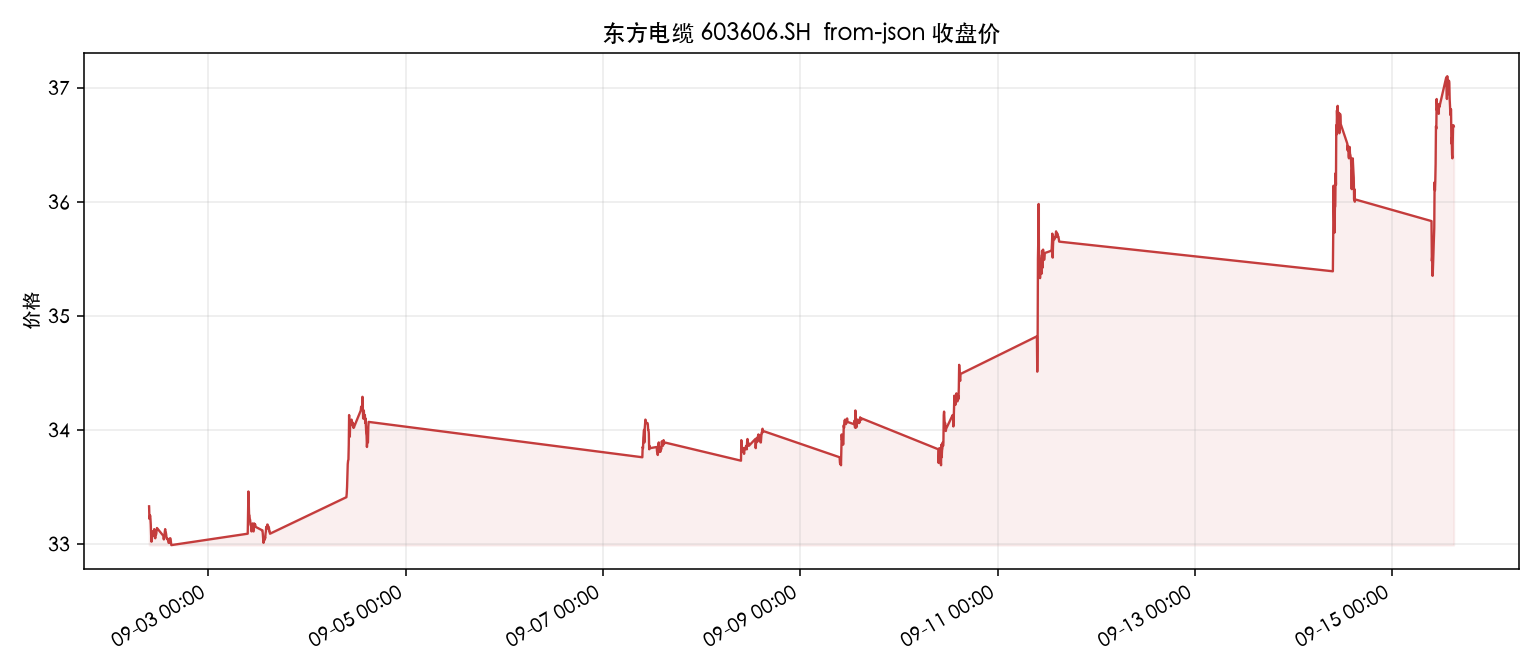
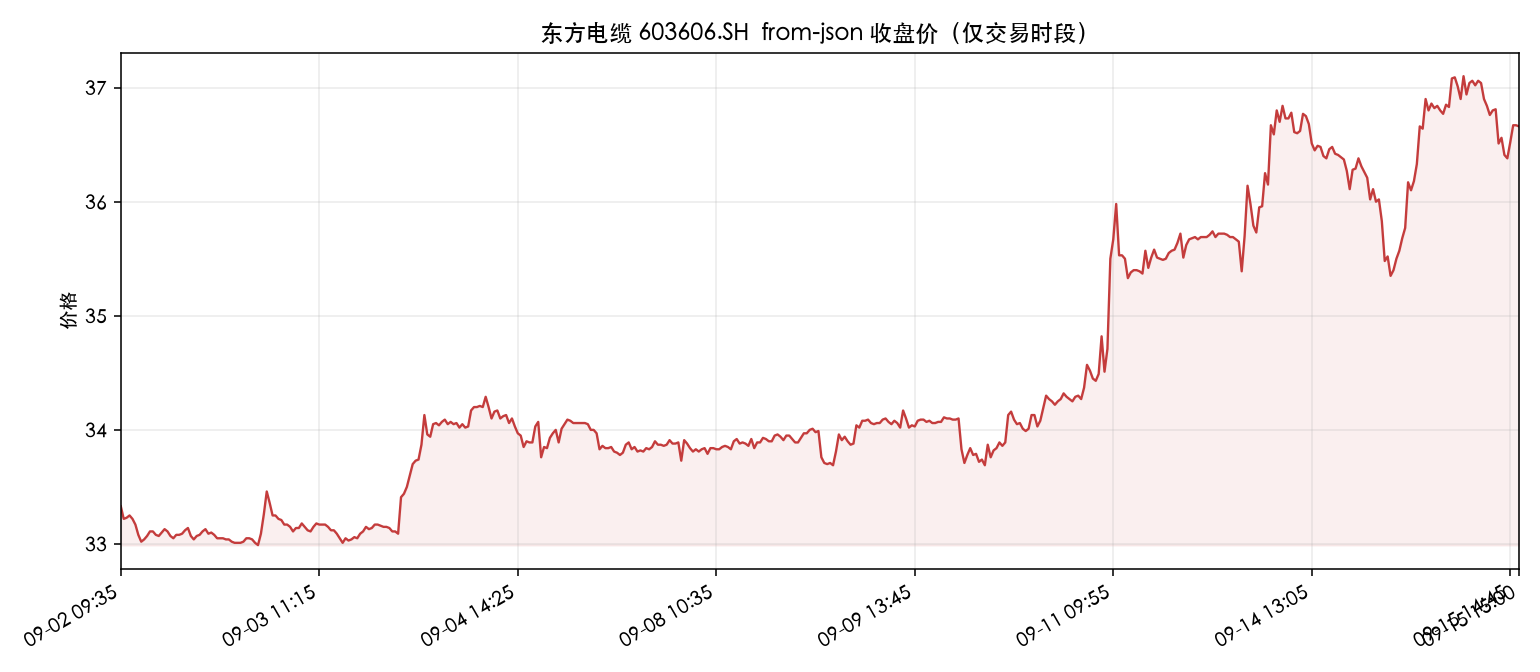
fix: plot only trading bars on x-axis
Skip overnight/lunch/weekend gaps so minute charts no longer draw
long straight lines across non-trading time.

diff --git a/src/emquote/plotting.py b/src/emquote/plotting.py
@@ -1,4 +1,8 @@
-"""把 K 线收盘价画成简单曲线图（PNG）。"""
+"""把 K 线收盘价画成简单曲线图（PNG）。
+
+分钟级数据按「交易 bar 序号」横轴绘制，跳过隔夜/周末等非交易时段，
+避免休市空洞被连成斜线。
+"""
 
 from __future__ import annotations
 
@@ -27,14 +31,34 @@ def _setup_chinese_font() -> None:
             return
 
 
+def _label_for_bar(time_text: str, *, intraday: bool) -> str:
+    """横轴标签：分钟线标到时刻，日线只标日期。"""
+    if intraday and " " in time_text:
+        date, hm = time_text.split(" ", 1)
+        return f"{date[5:]} {hm}"  # MM-DD HH:MM
+    if " " in time_text:
+        return time_text.split(" ", 1)[0][5:]  # MM-DD
+    return time_text[5:] if len(time_text) >= 10 else time_text
+
+
+def _pick_tick_indices(n: int, target: int = 8) -> list[int]:
+    if n <= 0:
+        return []
+    if n <= target:
+        return list(range(n))
+    step = max(1, (n - 1) // (target - 1))
+    idxs = list(range(0, n, step))
+    if idxs[-1] != n - 1:
+        idxs.append(n - 1)
+    return idxs
+
+
 def plot_close_curve(kline: dict[str, Any], output: str | Path) -> Path:
     try:
         import matplotlib
 
         matplotlib.use("Agg")
-        import matplotlib.dates as mdates
         import matplotlib.pyplot as plt
-        from datetime import datetime
     except ImportError as exc:  # pragma: no cover
         raise RuntimeError("画图需要安装 matplotlib：pip install 'emquote[plot]'") from exc
 
@@ -44,28 +68,36 @@ def plot_close_curve(kline: dict[str, Any], output: str | Path) -> Path:
     if not bars:
         raise RuntimeError("没有可绘制的 K 线数据")
 
-    times = []
-    for b in bars:
-        t = b["time"]
-        if " " in t:
-            times.append(datetime.strptime(t, "%Y-%m-%d %H:%M"))
-        else:
-            times.append(datetime.strptime(t, "%Y-%m-%d"))
-    closes = [b["close"] for b in bars]
+    # 只用交易时段 bar，按序号等距排列，不按日历时间轴留空。
+    xs = list(range(len(bars)))
+    closes = [float(b["close"]) for b in bars]
+    labels = [str(b["time"]) for b in bars]
+    intraday = any(" " in t for t in labels)
 
     out = Path(output).expanduser().resolve()
     out.parent.mkdir(parents=True, exist_ok=True)
 
     fig, ax = plt.subplots(figsize=(11, 4.8), dpi=140)
-    ax.plot(times, closes, color="#c43c3c", linewidth=1.2)
-    ax.fill_between(times, closes, min(closes), color="#c43c3c", alpha=0.08)
-    title = f"{kline.get('name') or ''} {kline.get('symbol') or ''}  {kline.get('interval') or ''} 收盘价".strip()
+    ax.plot(xs, closes, color="#c43c3c", linewidth=1.2)
+    ax.fill_between(xs, closes, min(closes), color="#c43c3c", alpha=0.08)
+
+    title = (
+        f"{kline.get('name') or ''} {kline.get('symbol') or ''}  "
+        f"{kline.get('interval') or ''} 收盘价（仅交易时段）"
+    ).strip()
     ax.set_title(title)
     ax.set_ylabel("价格")
     ax.grid(True, alpha=0.25)
-    fmt = "%m-%d %H:%M" if " " in bars[0]["time"] else "%m-%d"
-    ax.xaxis.set_major_formatter(mdates.DateFormatter(fmt))
-    fig.autofmt_xdate()
+
+    tick_idxs = _pick_tick_indices(len(xs), target=8)
+    ax.set_xticks(tick_idxs)
+    ax.set_xticklabels(
+        [_label_for_bar(labels[i], intraday=intraday) for i in tick_idxs],
+        rotation=30,
+        ha="right",
+    )
+    ax.set_xlim(0, max(len(xs) - 1, 0))
+
     fig.tight_layout()
     fig.savefig(out)
     plt.close(fig)

diff --git a/README.md b/README.md
@@ -35,7 +35,7 @@ emquote kline 603606.SH -i 5m --days 10
 emquote kline 603606.SH -i 5m --days 10 --csv > bars.csv
 emquote kline 603606.SH -i 1d --days 30
 
-# 画最近 10 日 5 分钟收盘价曲线
+# 画最近 10 日 5 分钟收盘价曲线（横轴只排交易 bar，跳过午休/隔夜/周末）
 emquote plot 603606.SH -i 5m --days 10 -o 603606-5m-10d.png
 ```
 
